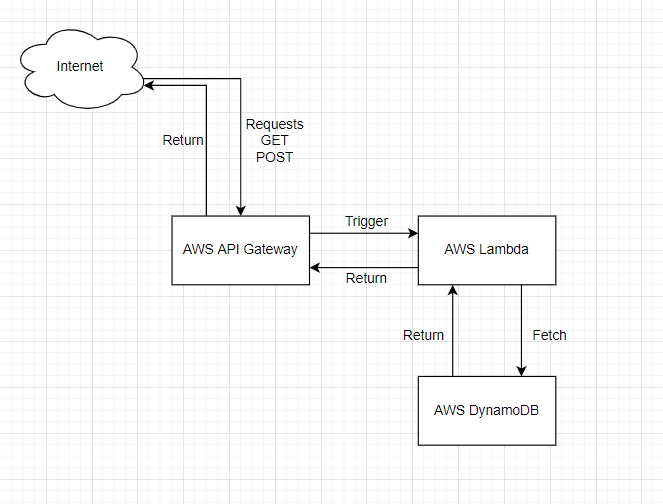
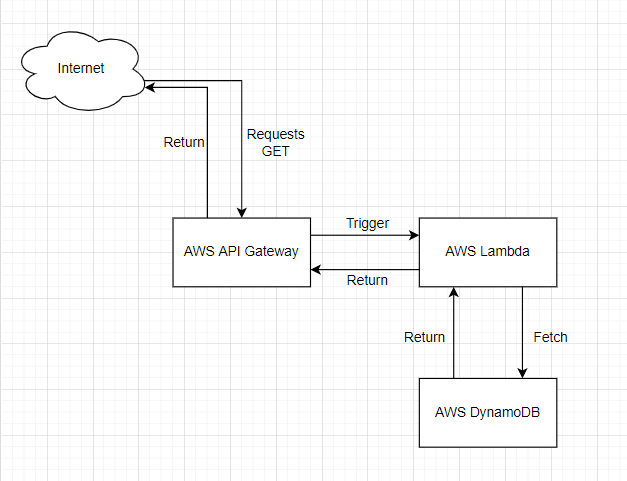
update web server delete error discrebsion about API

Changed region(s): [[0.0303, 0.0312, 0.9091, 0.9356]]

diff --git a/index.js b/index.js
@@ -20,19 +20,9 @@ exports.handler = async (event, context) => {
             }
           })
           .promise();
-        body = body.Item;
-        body = JSON.parse(JSON.stringify( body, ["shaHash","password"] , 3))
-        break;
-      case "POST /decrypt":
-        let requestJSON = JSON.parse(event.body);
-        body = await dynamo
-          .get({
-            TableName: "hashedPasswords",
-            Key: {
-              shaHash: requestJSON.shaHash.toUpperCase()
-            }
-          })
-          .promise();
+        if(body.length == 0) {
+          body = "error: "
+        }
         body = body.Item;
         body = JSON.parse(JSON.stringify( body, ["shaHash","password"] , 3))
         break;
@@ -40,8 +30,9 @@ exports.handler = async (event, context) => {
         throw new Error(`Unsupported route: "${event.routeKey}"`);
     }
   } catch (err) {
-    statusCode = 400;
-    body = err.message;
+    statusCode = 404;
+    let response = '{"error":"Password is uncrackable"}'
+    body = JSON.parse(response);
   } finally {
     body = JSON.stringify(body);
   }
